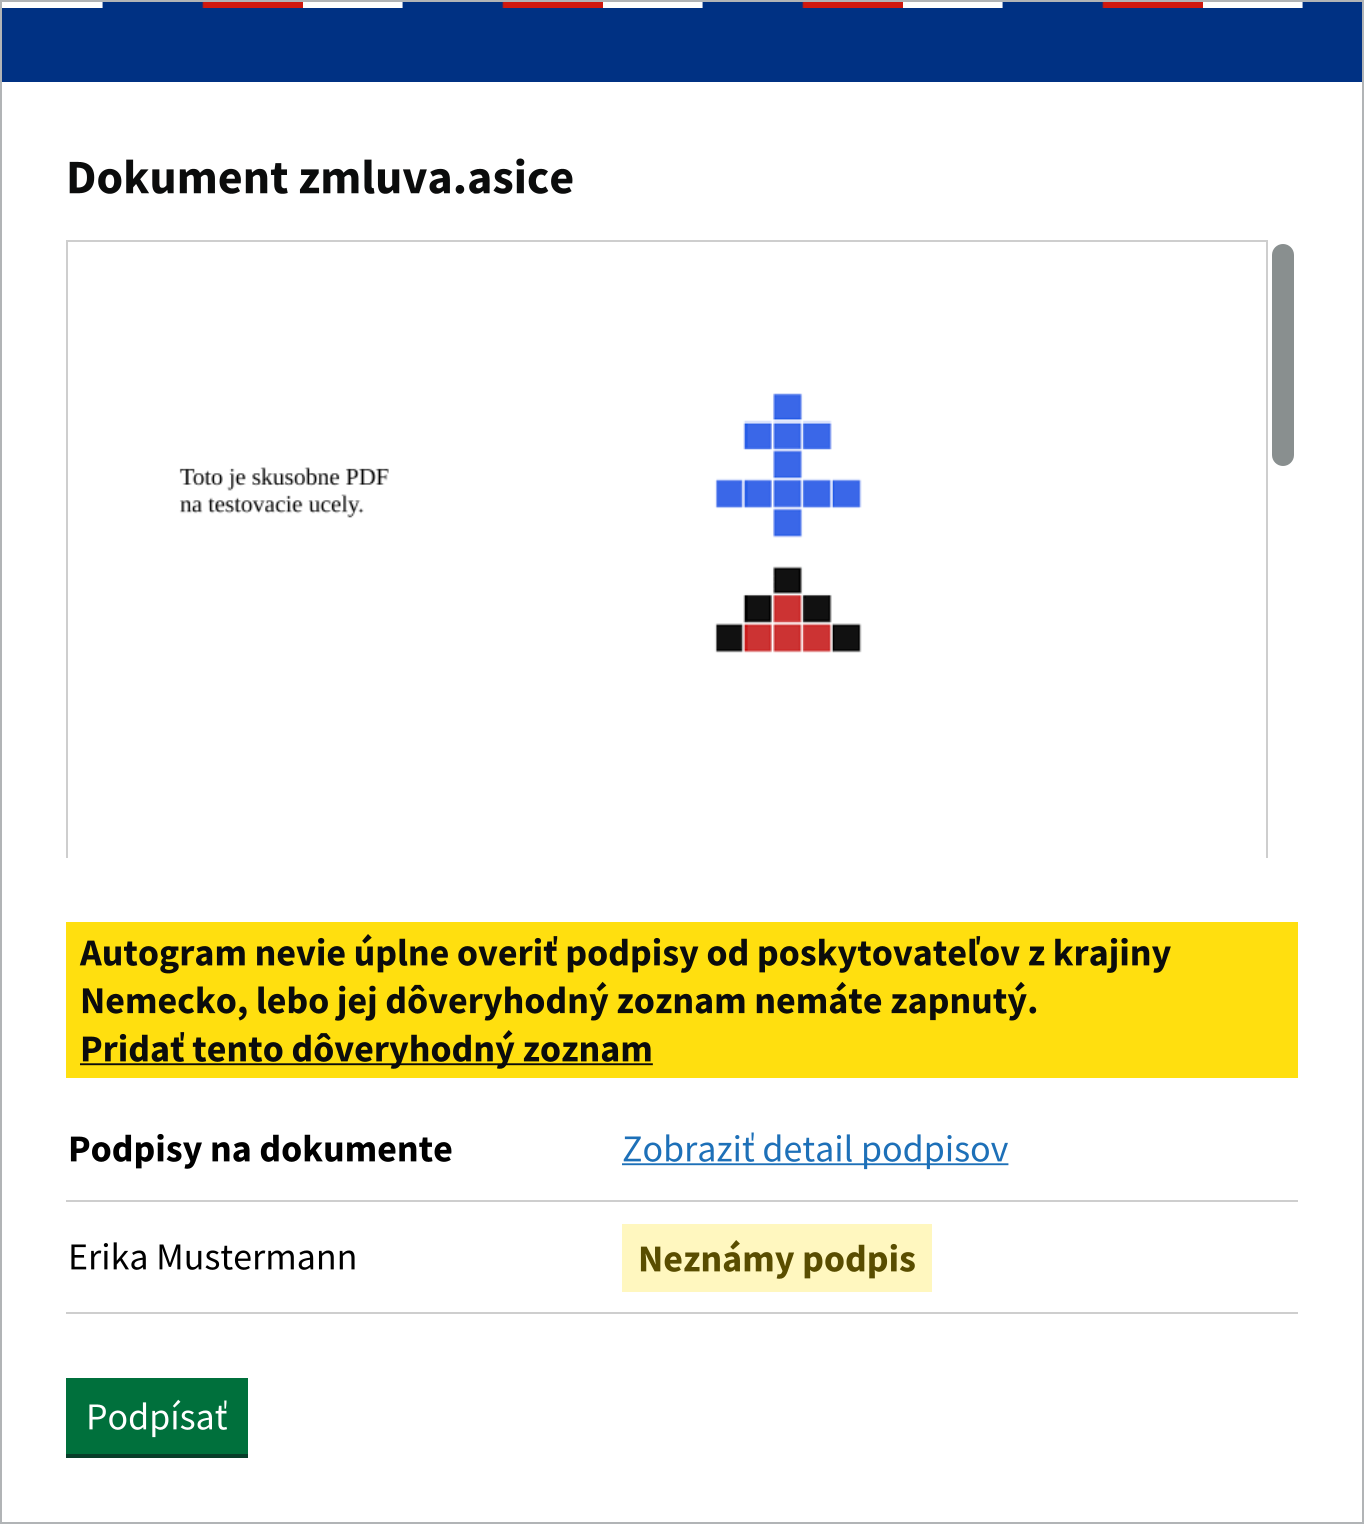
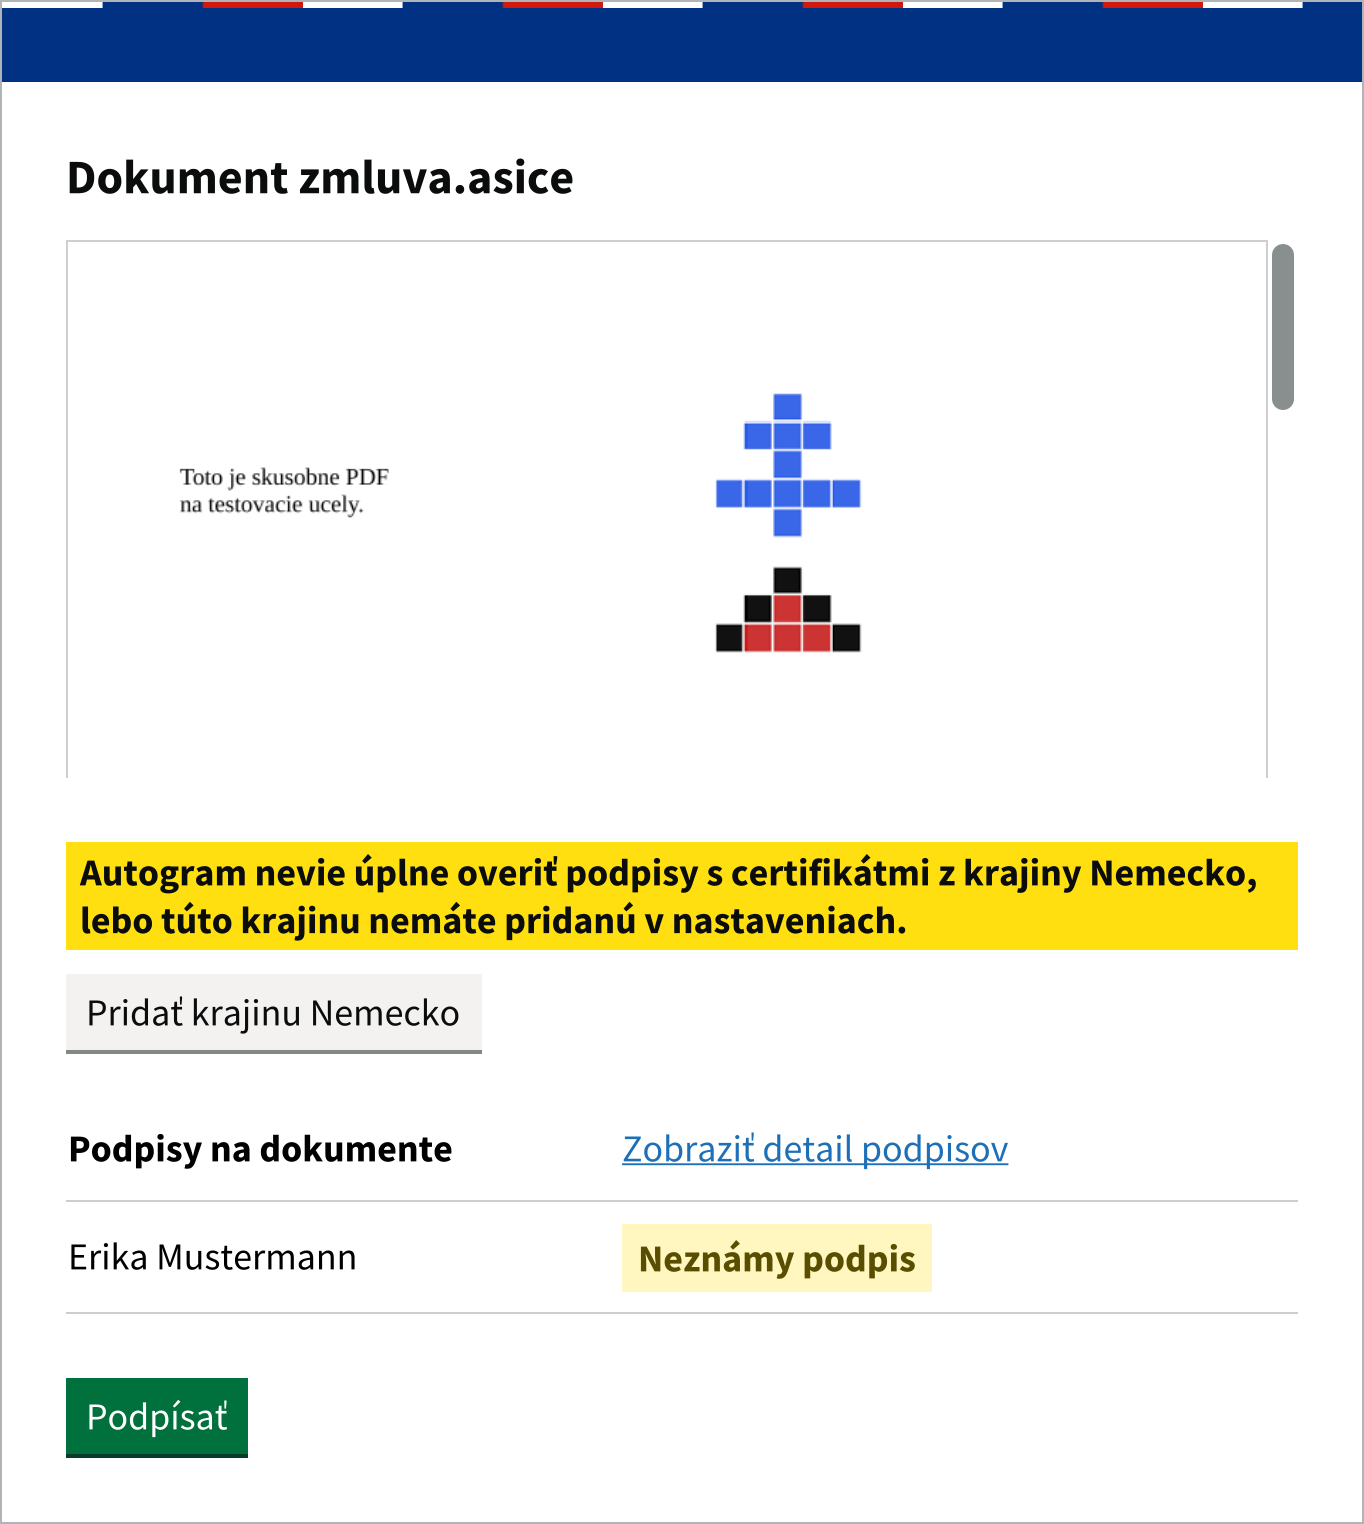
document the button that adds the countries

Changed region(s): [[0.0308, 0.5243, 0.9545, 0.7093], [0.9238, 0.2467, 0.9545, 0.3084]]

diff --git a/docs/docs/sk/verification.md b/docs/docs/sk/verification.md
@@ -52,9 +52,9 @@ Tlačidlom **Zobraziť technické detaily** otvoríte úplnú správu o overení
 
 Autogram overuje podpisy podľa dôveryhodných zoznamov Európskej únie, ktoré sťahuje z internetu. Predvolene overuje podpisy z certifikátov poskytovateľov zo Slovenska, Česka, Rakúska, Poľska, Maďarska, Belgicka, Holandska a Španielska. Ďalšie krajiny zapnete v [Nastaveniach](settings.md#overovanie-podpisov). Každá ďalšia krajina overovanie spomalí.
 
-Ak podpis vydal poskytovateľ z krajiny, ktorej dôveryhodný zoznam nemáte zapnutý, Autogram ho nevie úplne overiť a nad podpismi na to upozorní. Kliknite na **Pridať tento dôveryhodný zoznam** (pri viacerých krajinách **Pridať tieto dôveryhodné zoznamy**): Autogram krajinu zapne v nastaveniach a otvorené dokumenty overí znova.
+Ak podpis vydal poskytovateľ z krajiny, ktorej dôveryhodný zoznam nemáte zapnutý, Autogram ho nevie úplne overiť a nad podpismi na to upozorní. Kliknite na tlačidlo pod upozornením, napríklad **Pridať krajinu Nemecko** (pri viacerých krajinách **Pridať tieto krajiny**): Autogram krajinu pridá v nastaveniach a otvorené dokumenty overí znova.
 
-![Upozornenie, že dôveryhodný zoznam krajiny nemáte zapnutý](/assets/images/screenshots/sk/signed-document-country-off.png)
+![Upozornenie, že krajinu nemáte pridanú v nastaveniach, s tlačidlom, ktoré ju pridá](/assets/images/screenshots/sk/signed-document-country-off.png)
 
 Ak sa dôveryhodné zoznamy nepodarí stiahnuť, Autogram zobrazí upozornenie, že podpisy nie je možné úplne overiť. Skontrolujte pripojenie na internet a dokument otvorte znova.
 

diff --git a/docs/docs/en/verification.md b/docs/docs/en/verification.md
@@ -51,9 +51,9 @@ Click **Show signature details**. For each signature you see:
 
 Autogram validates signatures against the European Union trusted lists, which it downloads from the internet. By default it validates signatures with certificates from providers in Slovakia, Czechia, Austria, Poland, Hungary, Belgium, the Netherlands and Spain. You can turn on more countries in [Settings](settings.md#signature-validation). Each additional country slows down validation.
 
-If a signature was issued by a provider from a country whose trusted list is turned off, Autogram cannot fully validate it and says so above the signatures. Click **Add this trusted list** (**Add these trusted lists** for more countries): Autogram turns the country on in the settings and validates open documents again.
+If a signature was issued by a provider from a country whose trusted list is turned off, Autogram cannot fully validate it and says so above the signatures. Click the button below the warning, for example **Add Germany** (**Add these countries** for more countries): Autogram adds the country in the settings and validates open documents again.
 
-![Warning that the trusted list of a country is turned off](/assets/images/screenshots/en/signed-document-country-off.png)
+![Warning that a country is not in the settings, with a button that adds it](/assets/images/screenshots/en/signed-document-country-off.png)
 
 If the trusted lists cannot be downloaded, Autogram shows a warning that the signatures cannot be fully validated. Check your internet connection and open the document again.
 

diff --git a/docs/docs/sk/troubleshooting.md b/docs/docs/sk/troubleshooting.md
@@ -78,7 +78,7 @@ Autogram predvolene podpisuje iba XML formuláre slovenskej verejnej správy. In
 
 ### Podpisy sa nedajú overiť
 
-Ak Autogram hlási chybu pri sťahovaní dôveryhodných zoznamov, nemá prístup na internet alebo je server s dôveryhodnými zoznamami nedostupný. Skontrolujte pripojenie a dokument otvorte znova. Ak hlási, že sa nepodarilo stiahnuť iba niektoré zoznamy, je nedostupný server niektorej krajiny alebo je pripojenie na internet veľmi pomalé. Skúste to neskôr. Ak Autogram hlási, že dôveryhodný zoznam krajiny nemáte zapnutý, kliknite na **Pridať tento dôveryhodný zoznam**. Viac je na stránke [Overenie podpisov](verification.md#doveryhodne-zoznamy).
+Ak Autogram hlási chybu pri sťahovaní dôveryhodných zoznamov, nemá prístup na internet alebo je server s dôveryhodnými zoznamami nedostupný. Skontrolujte pripojenie a dokument otvorte znova. Ak hlási, že sa nepodarilo stiahnuť iba niektoré zoznamy, je nedostupný server niektorej krajiny alebo je pripojenie na internet veľmi pomalé. Skúste to neskôr. Ak Autogram hlási, že krajinu nemáte pridanú v nastaveniach, kliknite na tlačidlo pod upozornením, napríklad **Pridať krajinu Nemecko**. Viac je na stránke [Overenie podpisov](verification.md#doveryhodne-zoznamy).
 
 ## Inštalácia a aktualizácie
 

diff --git a/docs/docs/en/settings.md b/docs/docs/en/settings.md
@@ -29,7 +29,7 @@ For a timestamp to be recognised during validation, its provider must be qualifi
 
 ![Settings – Signature Validation](/assets/images/screenshots/en/settings-validation.png)
 
-The list of EU countries whose trusted lists Autogram uses to validate signatures. By default, Slovakia, Czechia, Austria, Poland, Hungary, Belgium, the Netherlands and Spain are on. If you receive documents signed with a certificate from another country, turn it on. When Autogram cannot validate a signature because of that, it tells you and turns the country on with one click. More countries slow down validation.
+The list of EU countries whose trusted lists Autogram uses to validate signatures. By default, Slovakia, Czechia, Austria, Poland, Hungary, Belgium, the Netherlands and Spain are on. If you receive documents signed with a certificate from another country, turn it on. When Autogram cannot validate a signature because of that, it tells you and adds the country with one click. More countries slow down validation.
 
 Autogram also uses these lists to find out whether the certificate you sign with is qualified. If your certificate is from another country, turn that country on too, otherwise Autogram marks the certificate as non-qualified in the [certificate selection](card-and-pin.md#choosing-the-certificate).
 

diff --git a/docs/docs/sk/settings.md b/docs/docs/sk/settings.md
@@ -29,7 +29,7 @@ Aby bola časová pečiatka pri overovaní uznaná, jej poskytovateľ musí byť
 
 ![Nastavenia – Overovanie podpisov](/assets/images/screenshots/sk/settings-validation.png)
 
-Zoznam krajín EÚ, podľa ktorých dôveryhodných zoznamov Autogram overuje podpisy. Predvolene sú zapnuté Slovensko, Česko, Rakúsko, Poľsko, Maďarsko, Belgicko, Holandsko a Španielsko. Ak dostávate dokumenty podpísané certifikátom z inej krajiny, zapnite ju. Autogram vás na to upozorní pri podpise, ktorý preto nevie overiť, a krajinu zapne jedným kliknutím. Viac krajín overovanie spomalí.
+Zoznam krajín EÚ, podľa ktorých dôveryhodných zoznamov Autogram overuje podpisy. Predvolene sú zapnuté Slovensko, Česko, Rakúsko, Poľsko, Maďarsko, Belgicko, Holandsko a Španielsko. Ak dostávate dokumenty podpísané certifikátom z inej krajiny, zapnite ju. Autogram vás na to upozorní pri podpise, ktorý preto nevie overiť, a krajinu pridá jedným kliknutím. Viac krajín overovanie spomalí.
 
 Podľa týchto zoznamov Autogram zisťuje aj to, či je kvalifikovaný certifikát, ktorým podpisujete. Ak máte certifikát z inej krajiny, zapnite aj ju, inak ho Autogram vo [výbere certifikátu](card-and-pin.md#vyber-certifikatu) označí ako nekvalifikovaný.
 

diff --git a/docs/docs/sk/warnings.md b/docs/docs/sk/warnings.md
@@ -25,9 +25,9 @@ Ak dokument už obsahuje podpis, ktorý je neplatný alebo ho nie je možné ove
 - **Zrušiť podpisovanie:** dokument nepodpíšete,
 - **Podpísať:** dokument napriek tomu podpíšete.
 
-Ak podpis vydal poskytovateľ z krajiny, ktorej dôveryhodný zoznam nemáte zapnutý, upozornenie to uvedie. Kliknite na **Pridať tento dôveryhodný zoznam**: Autogram krajinu zapne v nastaveniach a podpisy overí znova. Potom kliknite na **Podpísať** ešte raz.
+Ak podpis vydal poskytovateľ z krajiny, ktorej dôveryhodný zoznam nemáte zapnutý, upozornenie to uvedie. Kliknite na tlačidlo pod ním, napríklad **Pridať krajinu Nemecko**: Autogram krajinu pridá v nastaveniach a podpisy overí znova. Potom kliknite na **Podpísať** ešte raz.
 
-![Upozornenie s odkazom, ktorý pridá dôveryhodný zoznam](/assets/images/screenshots/sk/warning-invalid-signatures-country-off.png)
+![Upozornenie s tlačidlom, ktoré pridá krajinu](/assets/images/screenshots/sk/warning-invalid-signatures-country-off.png)
 
 Čo znamenajú jednotlivé výsledky overenia, je na stránke [Overenie podpisov](verification.md#vysledky). Upozornenie môžete vypnúť v [Nastaveniach](settings.md#bezpecnost) voľbou **Kontrola platnosti podpisov**.
 

diff --git a/docs/docs/en/troubleshooting.md b/docs/docs/en/troubleshooting.md
@@ -78,7 +78,7 @@ By default, Autogram signs only Slovak government XML forms. You can sign other 
 
 ### Signatures cannot be validated
 
-If Autogram reports an error while downloading trusted lists, it has no internet access or the server with the trusted lists is unavailable. Check your connection and open the document again. If it reports that only some lists could not be downloaded, the server of a country is unavailable or the internet connection is very slow. Try again later. If Autogram says that the trusted list of a country is turned off, click **Add this trusted list**. See [Verifying signatures](verification.md#trusted-lists).
+If Autogram reports an error while downloading trusted lists, it has no internet access or the server with the trusted lists is unavailable. Check your connection and open the document again. If it reports that only some lists could not be downloaded, the server of a country is unavailable or the internet connection is very slow. Try again later. If Autogram says that a country is not in your settings, click the button below the warning, for example **Add Germany**. See [Verifying signatures](verification.md#trusted-lists).
 
 ## Installation and updates
 

diff --git a/docs/docs/en/warnings.md b/docs/docs/en/warnings.md
@@ -25,9 +25,9 @@ Authorities may not accept such a document. **Show signature details** shows the
 - **Cancel signing:** you do not sign the document,
 - **Sign:** you sign the document anyway.
 
-If a signature was issued by a provider from a country whose trusted list is turned off, the warning says so. Click **Add this trusted list**: Autogram turns the country on in the settings and validates the signatures again. Then click **Sign** once more.
+If a signature was issued by a provider from a country whose trusted list is turned off, the warning says so. Click the button below it, for example **Add Germany**: Autogram adds the country in the settings and validates the signatures again. Then click **Sign** once more.
 
-![Warning with a link that adds the trusted list](/assets/images/screenshots/en/warning-invalid-signatures-country-off.png)
+![Warning with a button that adds the country](/assets/images/screenshots/en/warning-invalid-signatures-country-off.png)
 
 What the validation results mean is explained in [Verifying signatures](verification.md#results). You can turn this warning off in [Settings](settings.md#security) with **Signature validity check**.
 
